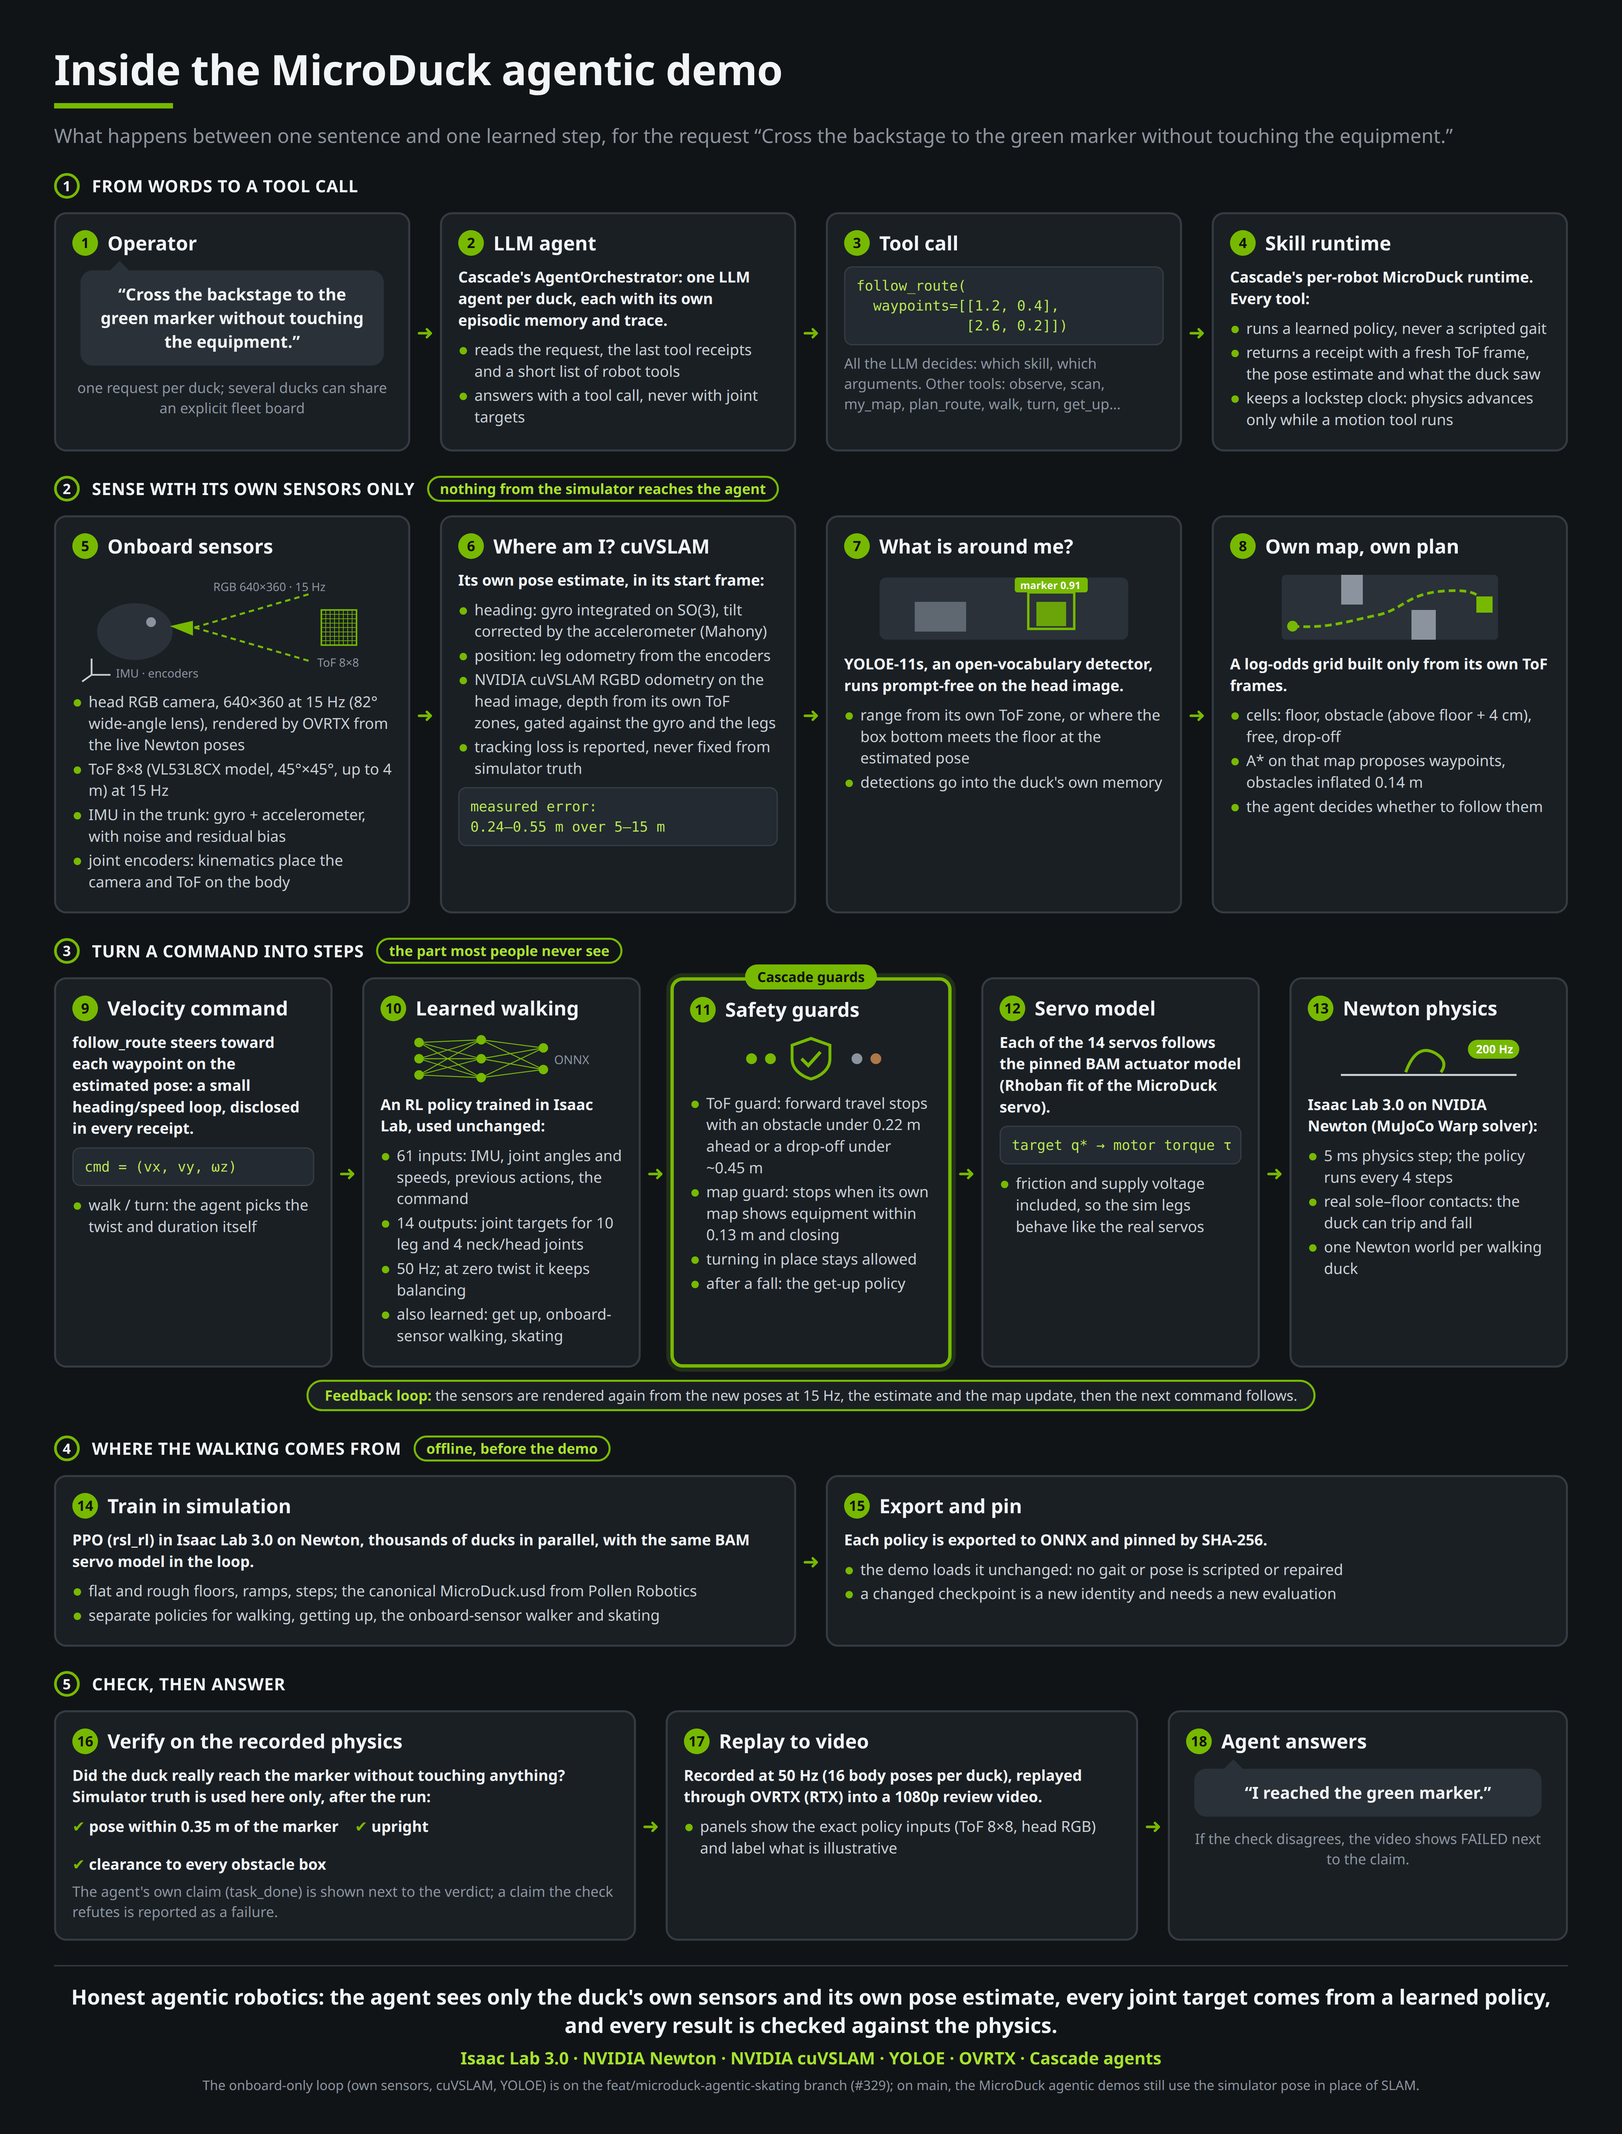
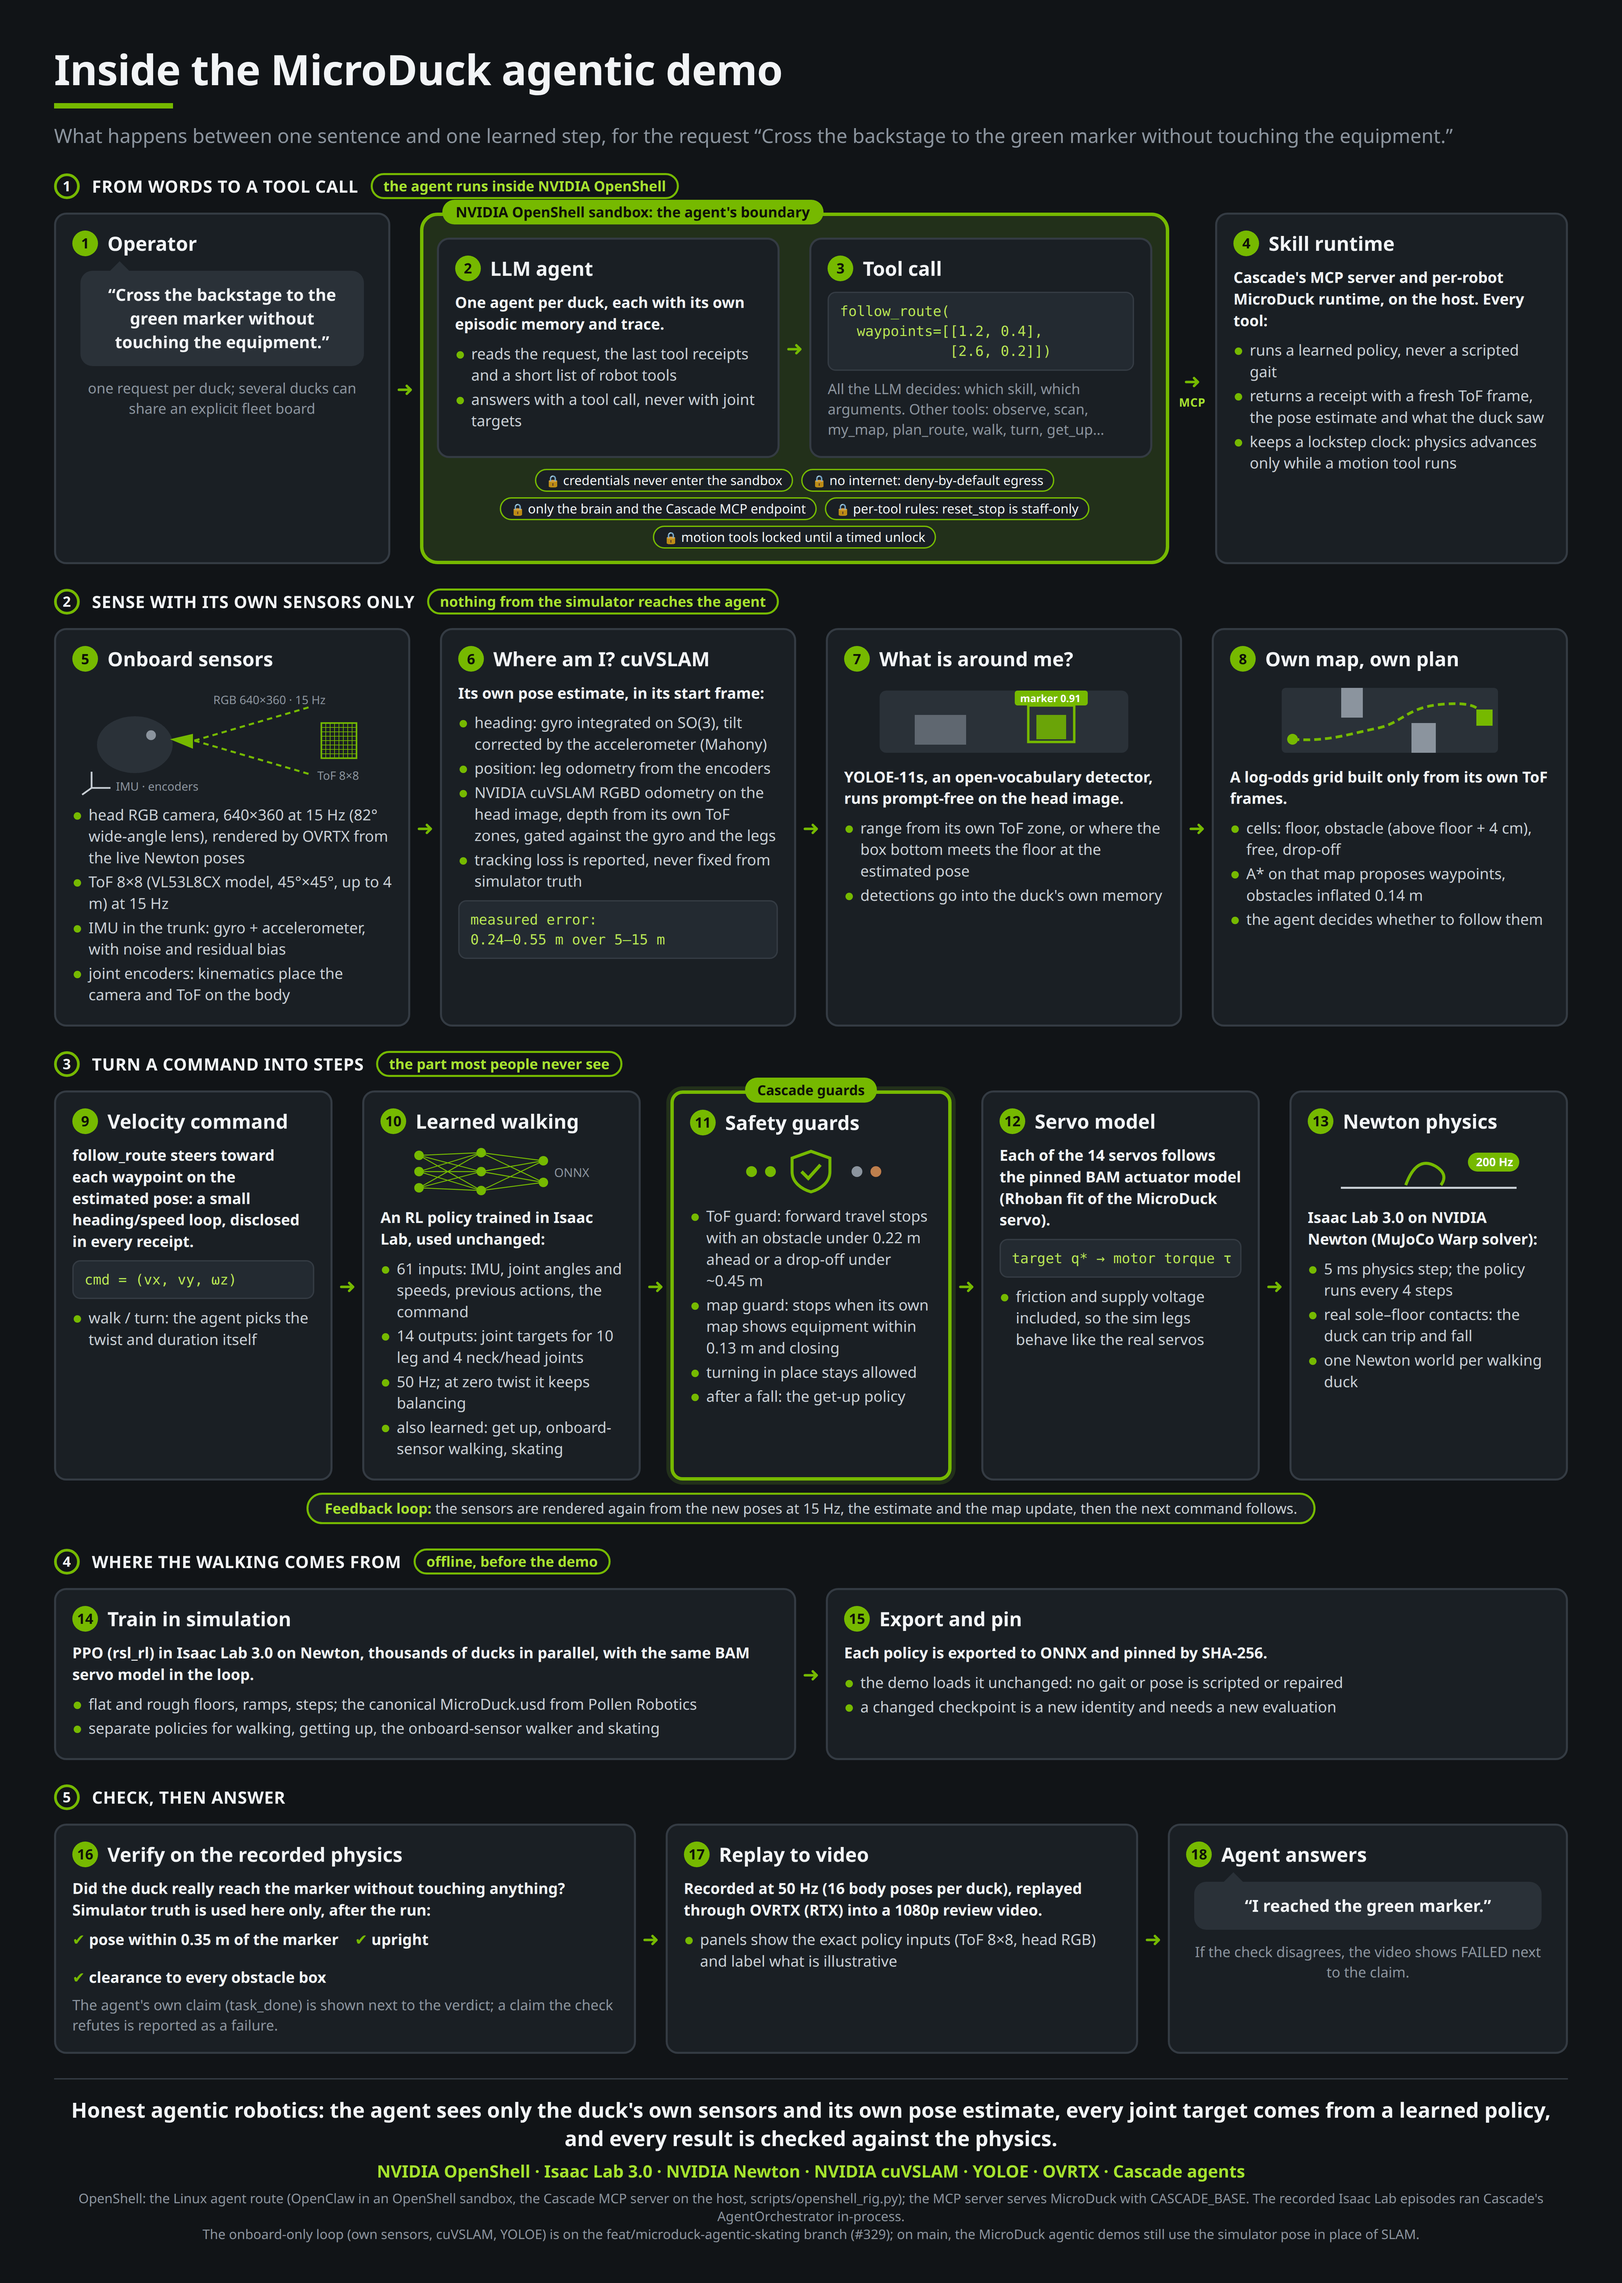
docs: OpenShell as the agent boundary in the MicroDuck pipeline diagram
The LLM agent and its tool call now sit inside an NVIDIA OpenShell sandbox
box, like the PAAI diagrams: credentials never enter the sandbox,
deny-by-default egress, only the brain and the Cascade MCP endpoint,
per-tool rules (reset_stop staff-only), motion tools locked until a timed
unlock (docs/OPENSHELL.md). The tool call crosses to the host as MCP; card
4 is the Cascade MCP server plus the MicroDuck runtime.

Scope, in the footnote and MICRODUCK_AGENTIC_DEMOS.md: this is the Linux
OpenShell route (the MCP server serves MicroDuck with CASCADE_BASE); the
recorded Isaac Lab episodes ran AgentOrchestrator in-process.

diff --git a/docs/assets/src/microduck_pipeline.html b/docs/assets/src/microduck_pipeline.html
@@ -59,6 +59,17 @@
   .footer .big { color: var(--ink); font-size: 15.4px; font-weight: 800; }
   .footer .green { color: var(--green-dark); font-size: 12.6px; font-weight: 600; margin-top: 5px; }
   .footer .small { color: var(--muted); font-size: 9.8px; margin-top: 5px; }
+  .shell { flex: 2.15 1 0; border: 2.5px solid var(--green); border-radius: 13px; padding: 16px 10px 9px; position: relative;
+           background: var(--green-soft); }
+  .shell > .row .card { background: var(--card); }
+  .shell-label { position: absolute; top: -12px; left: 14px; background: var(--green); color: var(--chip-ink); font-weight: 800;
+                 font-size: 10.6px; padding: 2px 10px; border-radius: 9px; white-space: nowrap; }
+  .shell-rules { display: flex; flex-wrap: wrap; gap: 4px 6px; margin-top: 8px; justify-content: center; }
+  .shell-rules span { font-size: 9.6px; color: var(--ink); background: var(--card); border: 1px solid var(--green); border-radius: 10px;
+                      padding: 1px 7px; }
+  .shell-rules span::before { content: "🔒 "; font-size: 8.5px; }
+  .arrow.mcp { display: flex; flex-direction: column; justify-content: center; align-items: center; width: 34px; flex: 0 0 34px; }
+  .arrow.mcp small { font-size: 8.6px; font-weight: 800; color: var(--green-dark); letter-spacing: 0.2px; }
   svg text { font-family: "Noto Sans", sans-serif; }
   .stroke { stroke: var(--body); }
   .gstroke { stroke: var(--green); }
@@ -73,34 +84,46 @@
   <div class="sub">What happens between one sentence and one learned step, for the request “Cross the backstage to the green marker without touching the equipment.”</div>
 
   <!-- ===================================================== 1 -->
-  <div class="section"><span class="ring">1</span>From words to a tool call</div>
+  <div class="section"><span class="ring">1</span>From words to a tool call <span class="tag">the agent runs inside NVIDIA OpenShell</span></div>
   <div class="row">
-    <div class="card">
+    <div class="card" style="flex:0.9">
       <h3><span class="num">1</span>Operator</h3>
       <div class="bubble">“Cross the backstage to the green marker without touching the equipment.”</div>
       <div class="caption">one request per duck; several ducks can share an explicit fleet board</div>
     </div>
     <div class="arrow">➜</div>
-    <div class="card">
-      <h3><span class="num">2</span>LLM agent</h3>
-      <p class="lead">Cascade's AgentOrchestrator: one LLM agent per duck, each with its own episodic memory and trace.</p>
-      <ul>
-        <li>reads the request, the last tool receipts and a short list of robot tools</li>
-        <li>answers with a tool call, never with joint targets</li>
-      </ul>
-    </div>
-    <div class="arrow">➜</div>
-    <div class="card">
-      <h3><span class="num">3</span>Tool call</h3>
-      <span class="code">follow_route(
+    <div class="shell">
+      <span class="shell-label">NVIDIA OpenShell sandbox: the agent's boundary</span>
+      <div class="row">
+        <div class="card">
+          <h3><span class="num">2</span>LLM agent</h3>
+          <p class="lead">One agent per duck, each with its own episodic memory and trace.</p>
+          <ul>
+            <li>reads the request, the last tool receipts and a short list of robot tools</li>
+            <li>answers with a tool call, never with joint targets</li>
+          </ul>
+        </div>
+        <div class="arrow">➜</div>
+        <div class="card">
+          <h3><span class="num">3</span>Tool call</h3>
+          <span class="code">follow_route(
   waypoints=[[1.2, 0.4],
              [2.6, 0.2]])</span>
-      <div class="caption" style="text-align:left">All the LLM decides: which skill, which arguments. Other tools: observe, scan, my_map, plan_route, walk, turn, get_up…</div>
+          <div class="caption" style="text-align:left">All the LLM decides: which skill, which arguments. Other tools: observe, scan, my_map, plan_route, walk, turn, get_up…</div>
+        </div>
+      </div>
+      <div class="shell-rules">
+        <span>credentials never enter the sandbox</span>
+        <span>no internet: deny-by-default egress</span>
+        <span>only the brain and the Cascade MCP endpoint</span>
+        <span>per-tool rules: reset_stop is staff-only</span>
+        <span>motion tools locked until a timed unlock</span>
+      </div>
     </div>
-    <div class="arrow">➜</div>
-    <div class="card">
+    <div class="arrow mcp">➜<small>MCP</small></div>
+    <div class="card" style="flex:0.95">
       <h3><span class="num">4</span>Skill runtime</h3>
-      <p class="lead">Cascade's per-robot MicroDuck runtime. Every tool:</p>
+      <p class="lead">Cascade's MCP server and per-robot MicroDuck runtime, on the host. Every tool:</p>
       <ul>
         <li>runs a learned policy, never a scripted gait</li>
         <li>returns a receipt with a fresh ToF frame, the pose estimate and what the duck saw</li>
@@ -304,8 +327,8 @@
 
   <div class="footer">
     <div class="big">Honest agentic robotics: the agent sees only the duck's own sensors and its own pose estimate, every joint target comes from a learned policy, and every result is checked against the physics.</div>
-    <div class="green">Isaac Lab 3.0 · NVIDIA Newton · NVIDIA cuVSLAM · YOLOE · OVRTX · Cascade agents</div>
-    <div class="small">The onboard-only loop (own sensors, cuVSLAM, YOLOE) is on the feat/microduck-agentic-skating branch (#329); on main, the MicroDuck agentic demos still use the simulator pose in place of SLAM.</div>
+    <div class="green">NVIDIA OpenShell · Isaac Lab 3.0 · NVIDIA Newton · NVIDIA cuVSLAM · YOLOE · OVRTX · Cascade agents</div>
+    <div class="small">OpenShell: the Linux agent route (OpenClaw in an OpenShell sandbox, the Cascade MCP server on the host, scripts/openshell_rig.py); the MCP server serves MicroDuck with CASCADE_BASE. The recorded Isaac Lab episodes ran Cascade's AgentOrchestrator in-process.<br>The onboard-only loop (own sensors, cuVSLAM, YOLOE) is on the feat/microduck-agentic-skating branch (#329); on main, the MicroDuck agentic demos still use the simulator pose in place of SLAM.</div>
   </div>
 </div>
 <script>

diff --git a/docs/MICRODUCK_AGENTIC_DEMOS.md b/docs/MICRODUCK_AGENTIC_DEMOS.md
@@ -27,7 +27,10 @@ show what the agent saw and decided and label what is illustrative. CPU tests:
 [Dark version](assets/microduck_pipeline_dark.png) · [source](assets/src/microduck_pipeline.html). The
 diagram shows the onboard-only loop (own camera, ToF, IMU and encoders; cuVSLAM localization; YOLOE
 detection) from `feat/microduck-agentic-skating` (#329). That branch is not on `main`: the demos below
-still take the pose from the simulator and use the detector stand-in.
+still take the pose from the simulator and use the detector stand-in. The agent box is the Linux
+[OpenShell route](OPENSHELL.md) (OpenClaw in a sandbox, Cascade's MCP server on the host, which serves
+MicroDuck with `CASCADE_BASE`); the recorded Isaac Lab episodes below ran `AgentOrchestrator`
+in-process.
 
 ## What runs where
 

diff --git a/README.md b/README.md
@@ -49,8 +49,8 @@ Dark versions: [simplified](docs/assets/paai_demo_simple_dark.png) ·
 (robot runtimes, fleet coordination and backend adapters) lives in its own doc. The MicroDuck
 agentic demos have their own pipeline diagram
 ([light](docs/assets/microduck_pipeline_light.png) · [dark](docs/assets/microduck_pipeline_dark.png)):
-onboard sensors, cuVSLAM, YOLOE, the learned walking policy, BAM servos and Newton (the onboard-only
-loop of #329, not yet on `main`).
+the agent in NVIDIA OpenShell, onboard sensors, cuVSLAM, YOLOE, the learned walking policy, BAM servos
+and Newton (the onboard-only loop of #329, not yet on `main`).
 
 ## Pick your path
 
